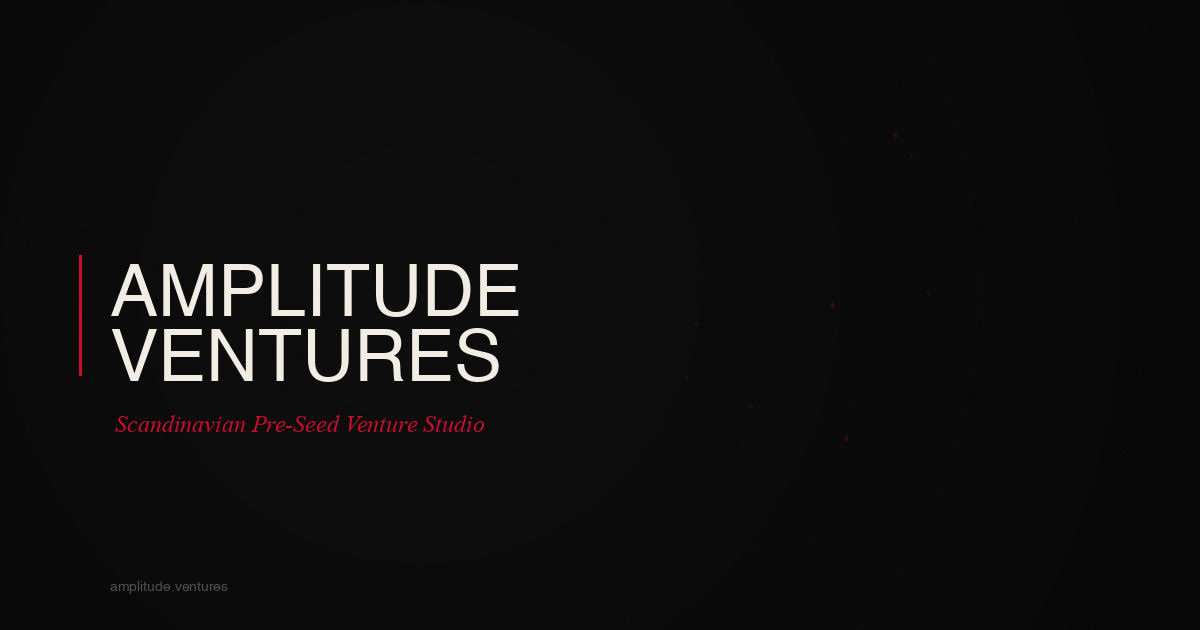
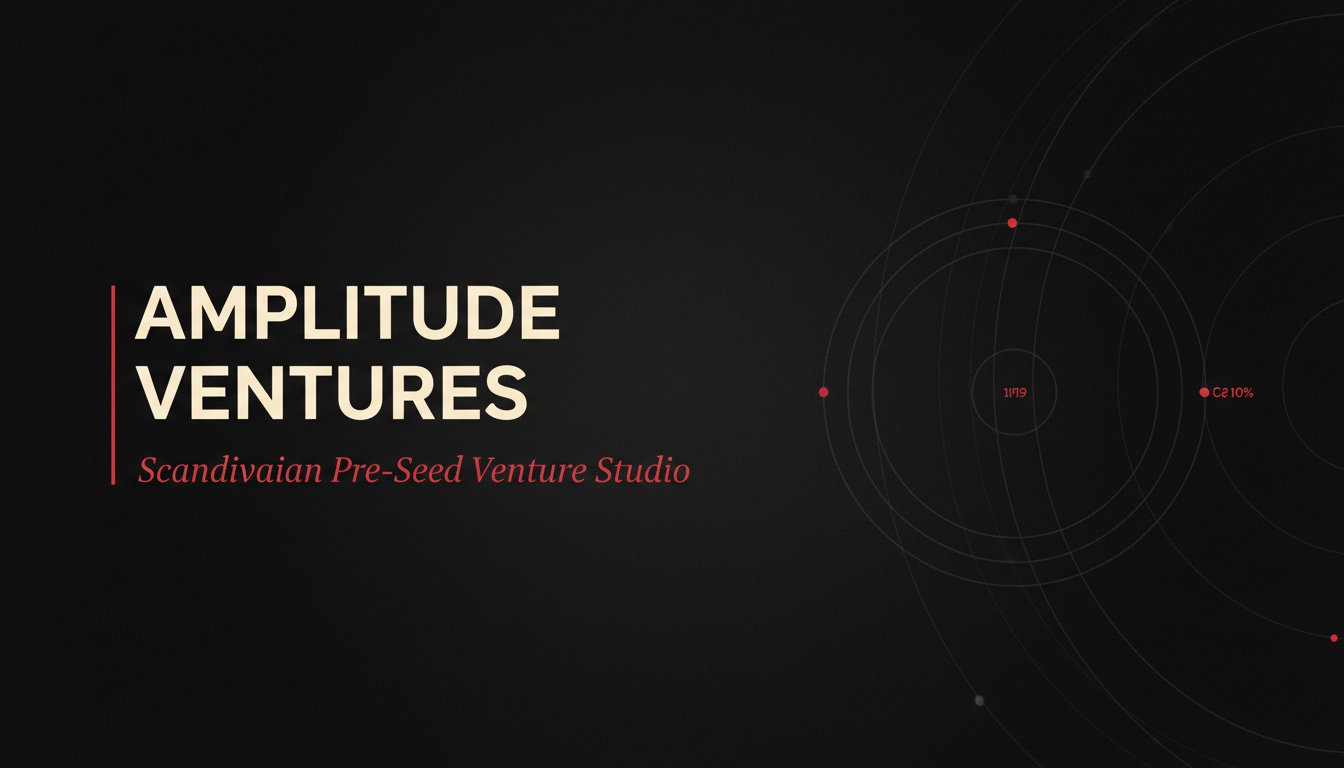
Add AI-generated OG image and update docs with Formspree details
- OG image: 1200x630 AI-generated via Nano Banana 2 (Gemini)
- CLAUDE.md: document Formspree integration (endpoint mreykdne,
  forwards to build@amplitude.ventures)

diff --git a/CLAUDE.md b/CLAUDE.md
@@ -442,7 +442,7 @@ The root layout (`app/layout.tsx`) includes:
 
 ## 14 · Known Issues & Future Work
 
-- **No forms backend** — Contact form needs a handler (Resend, Formspree, etc.)
+- **Forms backend** — Contact form submits to [Formspree](https://formspree.io) endpoint `https://formspree.io/f/mreykdne`. Submissions forward to `build@amplitude.ventures`. The endpoint is configured in `components/sections/ContactSection.tsx` as `FORMSPREE_ENDPOINT`.
 - **No CMS** — Blog posts are static in `lib/content/`. Consider MDX or Sanity for production.
 - **Spline dependencies** — `@splinetool/react-spline` and `@splinetool/runtime` are still in `package.json` but unused. Safe to remove.
 - **OG image** — `/public/og-image.png` exists (1200×630, programmatically generated). To regenerate with Nano Banana 2 (Gemini image gen), enable billing on the Google AI Studio project first — the free tier daily quota is shared across all image models.
